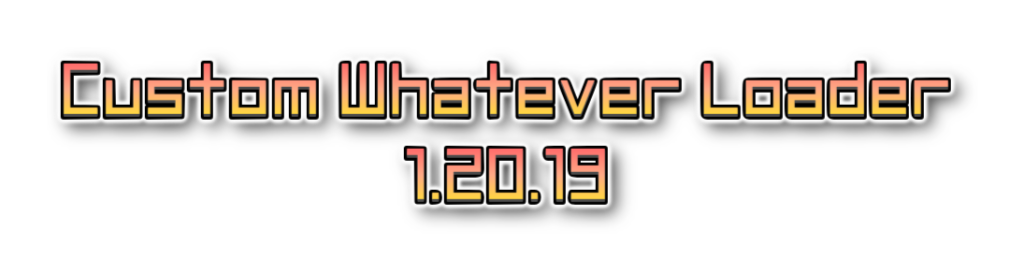
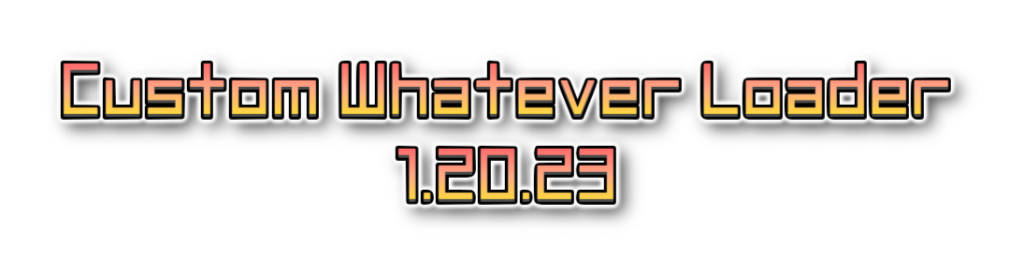
chore(CWL): bump version

Changed region(s): [[0.375, 0.5161, 0.625, 0.8029]]

diff --git a/CustomWhateverLoader/Loader/CustomWhateverLoader.cs b/CustomWhateverLoader/Loader/CustomWhateverLoader.cs
@@ -9,7 +9,7 @@ public static class ModInfo
     // for legacy reason
     public const string Guid = "dk.elinplugins.customdialogloader";
     public const string Name = "Custom Whatever Loader";
-    public const string Version = "1.20.17";
+    public const string Version = "1.20.23";
 }
 
 [BepInPlugin(ModInfo.Guid, ModInfo.Name, ModInfo.Version)]
